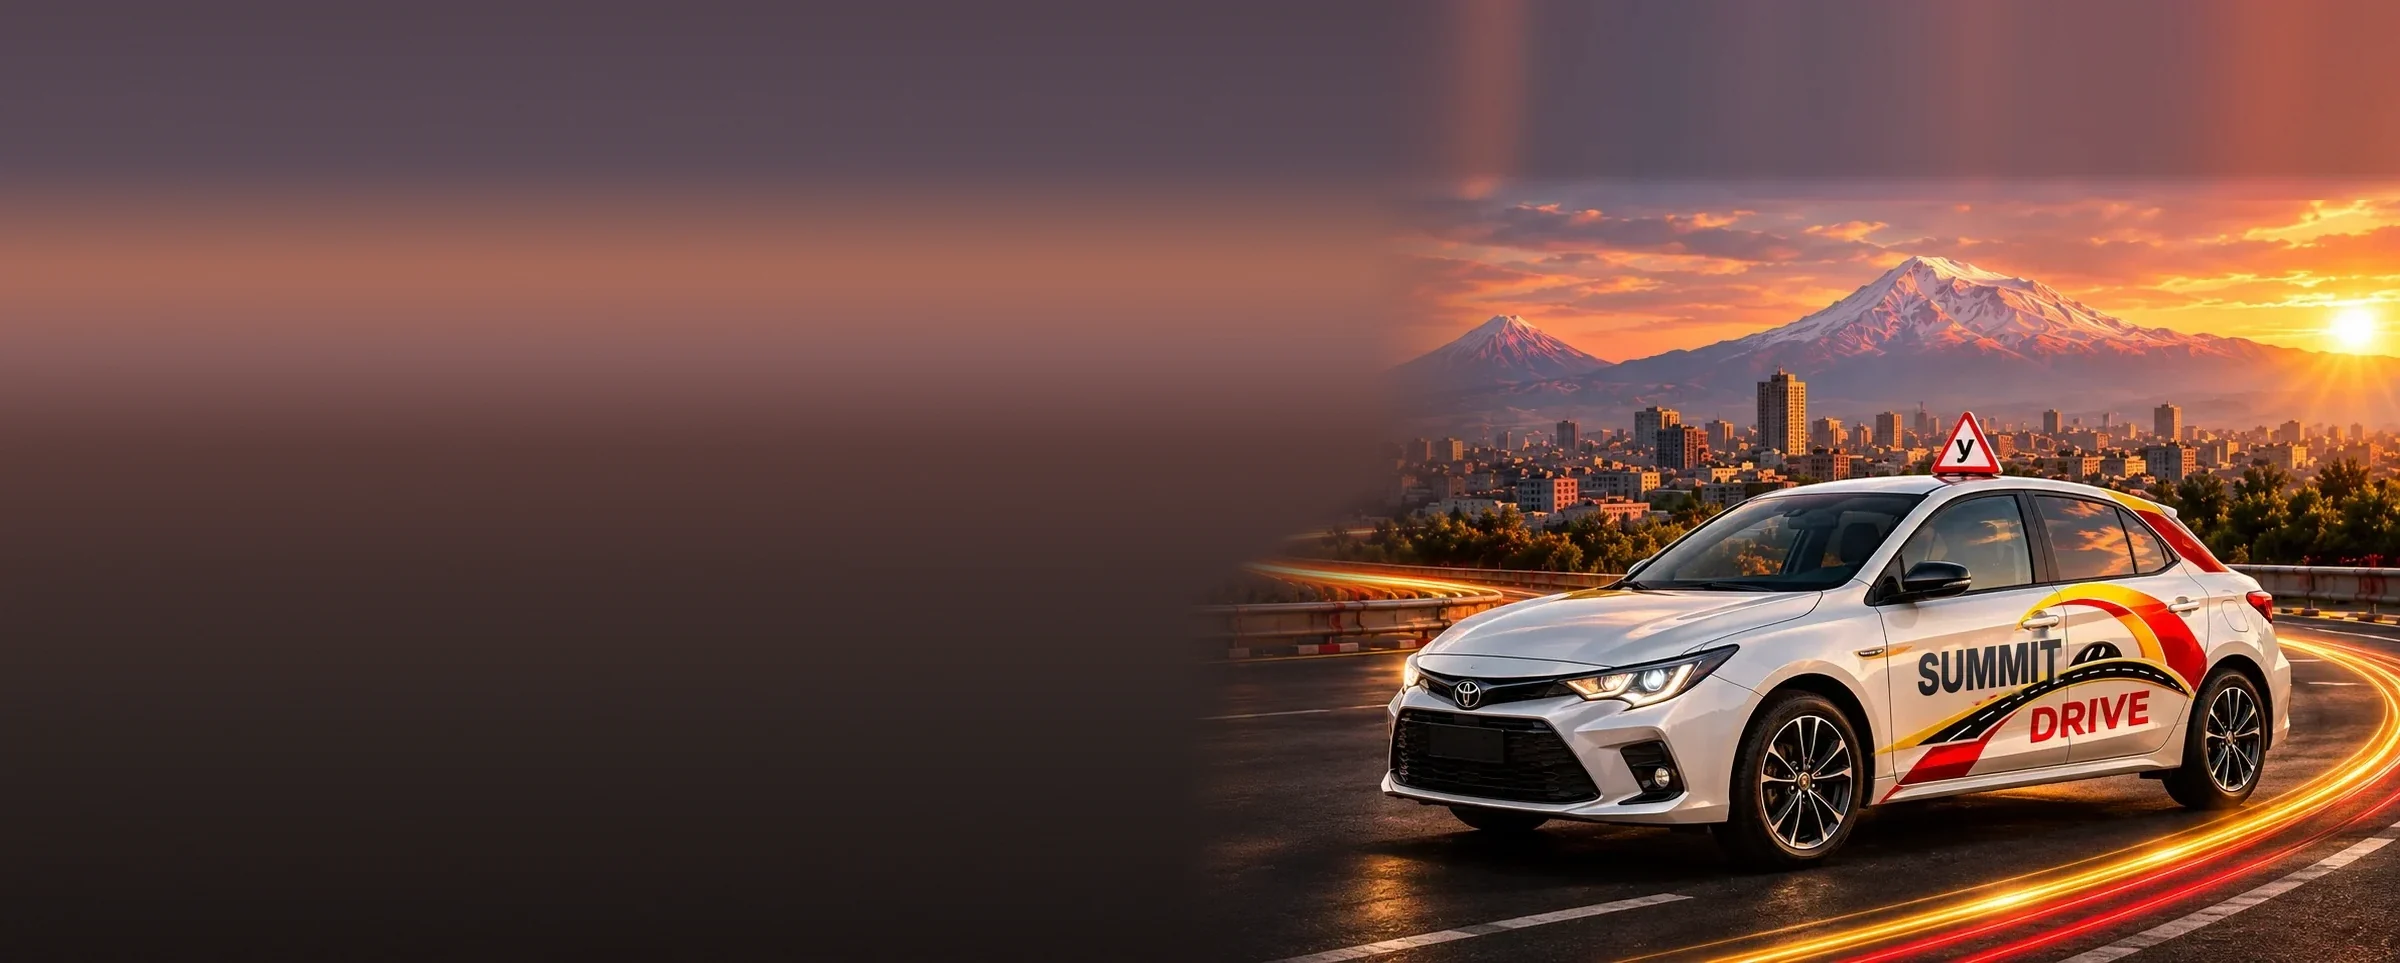
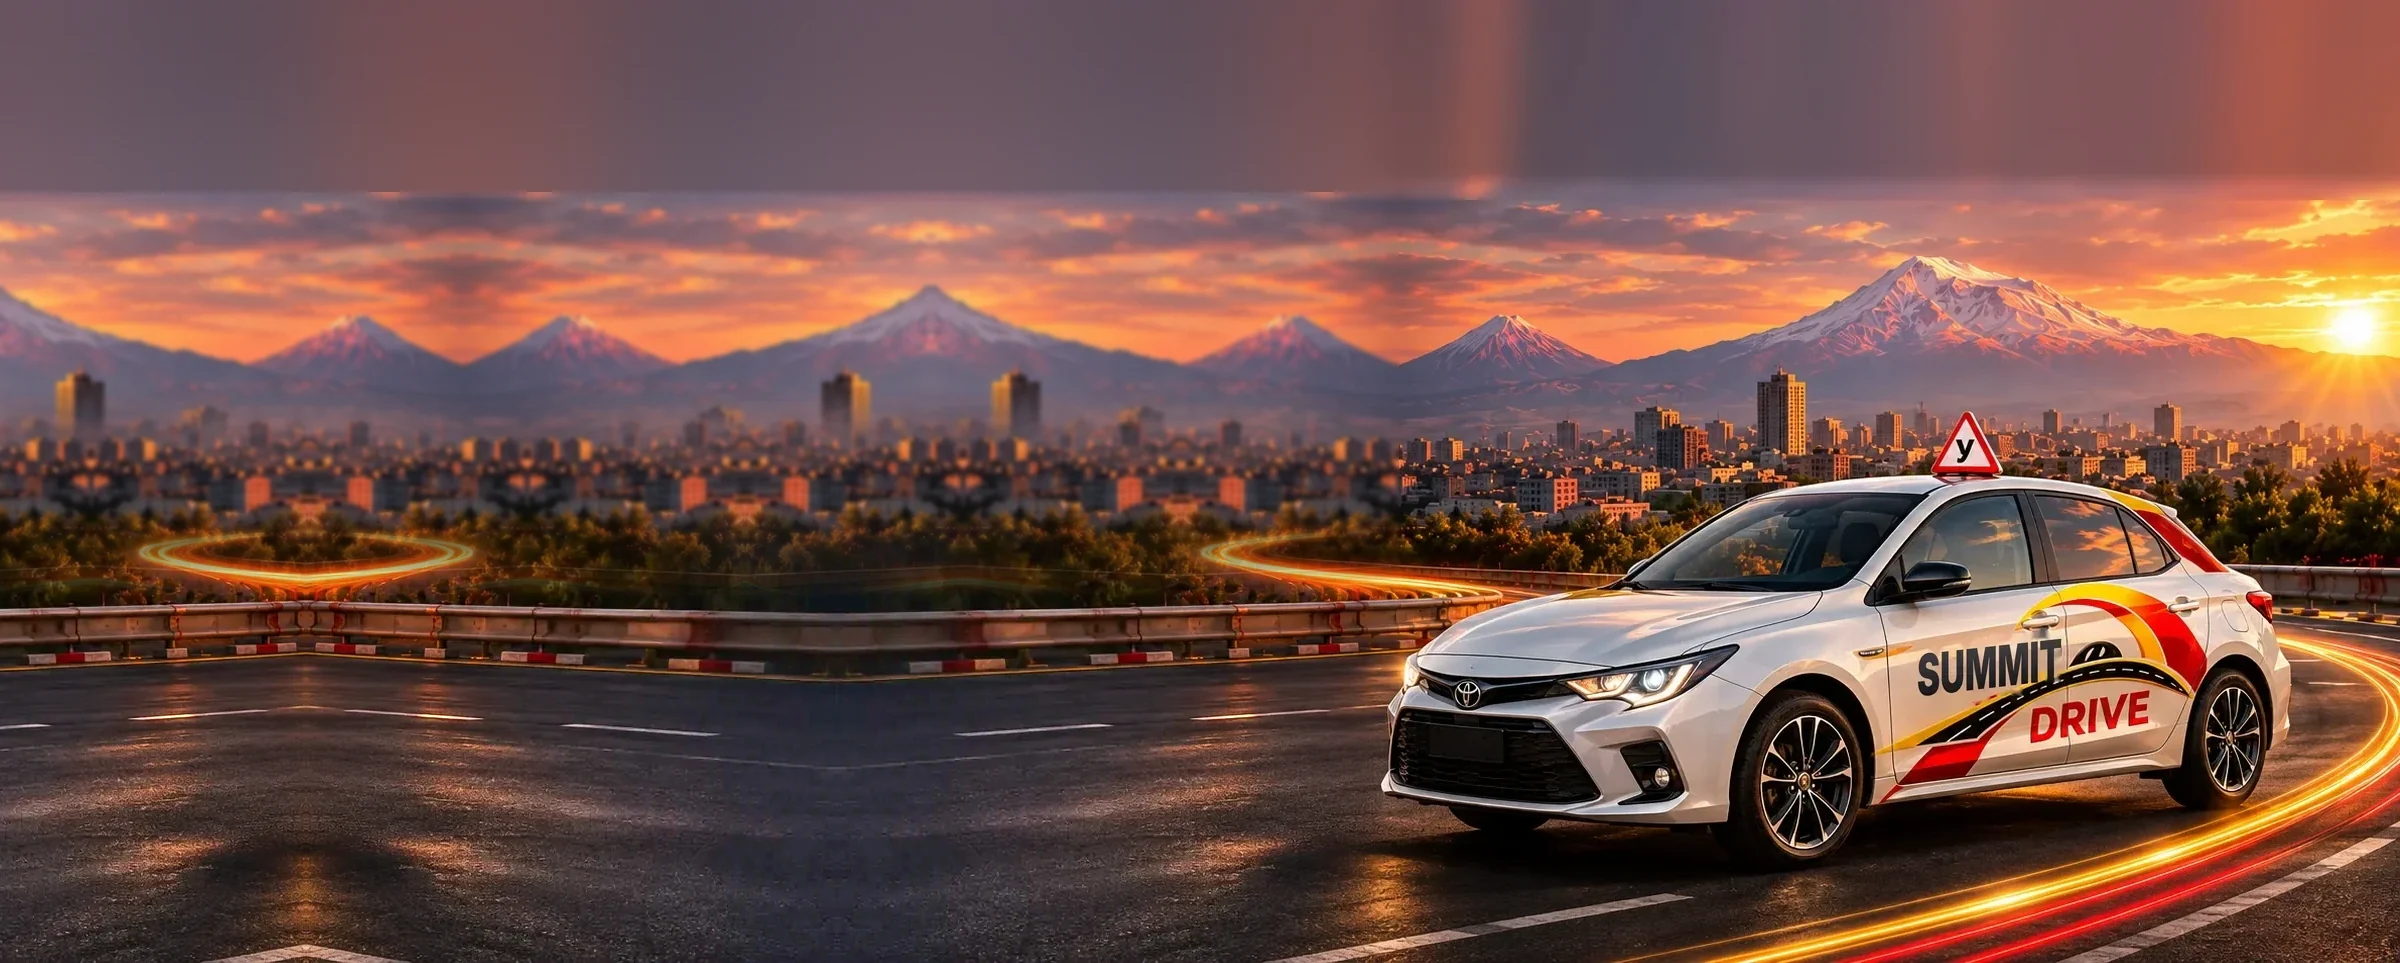
Hero: full-width bright sunset picture on the left too (mirrored scenery), no dark background
Claude-Session: https://claude.ai/code/session_01DPuzQCyoG6KJwwQgVvxKjt

diff --git a/index.html b/index.html
@@ -32,7 +32,7 @@ svg.i{width:1em;height:1em;stroke:currentColor;fill:none;stroke-width:1.9;stroke
 .btn.sm{padding:10px 18px;font-size:14px}
 
 /* hero */
-.hero{position:relative;color:#fff;background:url(assets/hero3.webp?v=5) right bottom/auto 100% no-repeat,linear-gradient(180deg,#52434e 0%,#5c4c57 17%,#a96a58 28%,#8a5f5d 36%,#5b3d3a 46%,#402f2d 60%,#2e2523 75%,#1c1514 100%);min-height:clamp(620px,46vw,780px);padding-bottom:70px}
+.hero{position:relative;color:#fff;background:url(assets/hero3.webp?v=6) right bottom/auto 100% no-repeat,linear-gradient(180deg,#52434e 0%,#5c4c57 17%,#a96a58 28%,#8a5f5d 36%,#5b3d3a 46%,#402f2d 60%,#2e2523 75%,#1c1514 100%);min-height:clamp(620px,46vw,780px);padding-bottom:70px}
 .hero:before{content:"";position:absolute;inset:0;pointer-events:none;background:linear-gradient(90deg,#1a110fa6 0%,#1a110f66 30%,#1a110f00 60%)}
 .hero>.wrap{position:relative}.hero h1,.hero p,.hero .perks,.hero li{text-shadow:0 2px 16px #000b,0 0 4px #0008}
 header{display:flex;align-items:center;justify-content:space-between;gap:20px;padding:22px 0}
